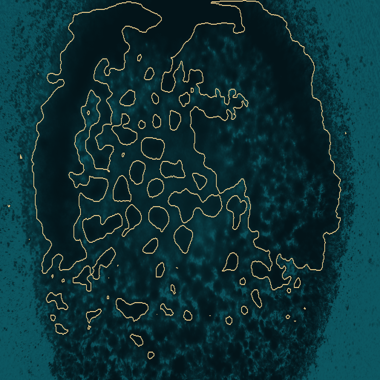
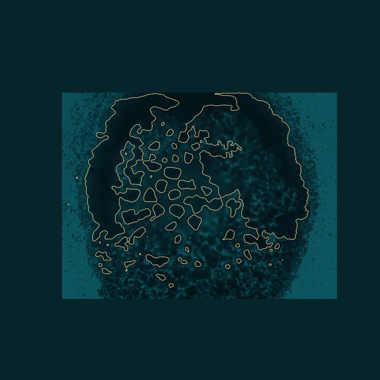
Real-spheroid examples: add raw/outline toggle, fix warped crops
- Add an 'AI outline' on/off toggle to the examples widget: compare the raw
  brightfield frame against the U-Net's call (raw + outlined versions rendered
  per frame).
- Fix the warping: the square crop was clamped at image edges then stretched to
  380x380, distorting the spheroid. Now the frame is padded to a true square
  (median-background fill) before resize, so proportions are preserved.

diff --git a/assets/theme3_interactive.js b/assets/theme3_interactive.js
@@ -880,14 +880,17 @@
 
   /* ---------- T. EXAMPLES: real spheroid frames with the AI outline ---------- */
   function examples(mount, d) {
-    header(mount, "See a real spheroid", "actual brightfield frames from the corpus, with the AI outline in gold; click a thumbnail");
-    var cur = 0;
+    header(mount, "See a real spheroid", "actual brightfield frames from the corpus; toggle the AI outline and click a thumbnail");
+    var cur = 0, outline = true;
+    var bar = el("div", "iact-controls"); var seg = el("div", "iact-seg"); bar.appendChild(seg); mount.appendChild(bar);
+    var oBtn = chip("AI outline", true); seg.appendChild(oBtn);
     var grid = el("div", "iact-2col"); mount.appendChild(grid);
     var stage = el("div", "iact-stage"); grid.appendChild(stage);
     var img = el("img", "iact-spheroid"); img.alt = "real CLL spheroid frame"; stage.appendChild(img);
     var cap = el("div", "iact-cap"); stage.appendChild(cap);
     var card = el("div", "iact-card"); grid.appendChild(card);
     var thumbs = el("div", "iact-thumbs"); mount.appendChild(thumbs);
+    oBtn.onclick = function () { outline = !outline; oBtn.className = "iact-chip" + (outline ? " on" : ""); select(); };
     d.items.forEach(function (it, i) {
       var t = el("div", "iact-thumb" + (i === 0 ? " on" : "")); var ti = el("img"); ti.src = it.img; ti.alt = it.label; t.appendChild(ti);
       t.appendChild(el("div", "iact-thumb-cap", it.label));
@@ -896,7 +899,7 @@
     });
     function select() {
       Array.prototype.forEach.call(thumbs.children, function (c, i) { c.className = "iact-thumb" + (i === cur ? " on" : ""); });
-      var it = d.items[cur]; img.src = it.img; cap.textContent = it.label;
+      var it = d.items[cur]; img.src = (outline || !it.raw) ? it.img : it.raw; cap.textContent = it.label + (outline ? "  (AI outline on)" : "  (raw frame)");
       card.innerHTML = "<div class='iact-cardh'>" + it.label + "</div>"
         + "<div class='iact-kv'><div class='iact-kvg'>AI-measured quality</div>"
         + "<div><span>cluster area</span><b>" + (it.area != null ? it.area.toLocaleString() + " px" : "-") + "</b></div>"
